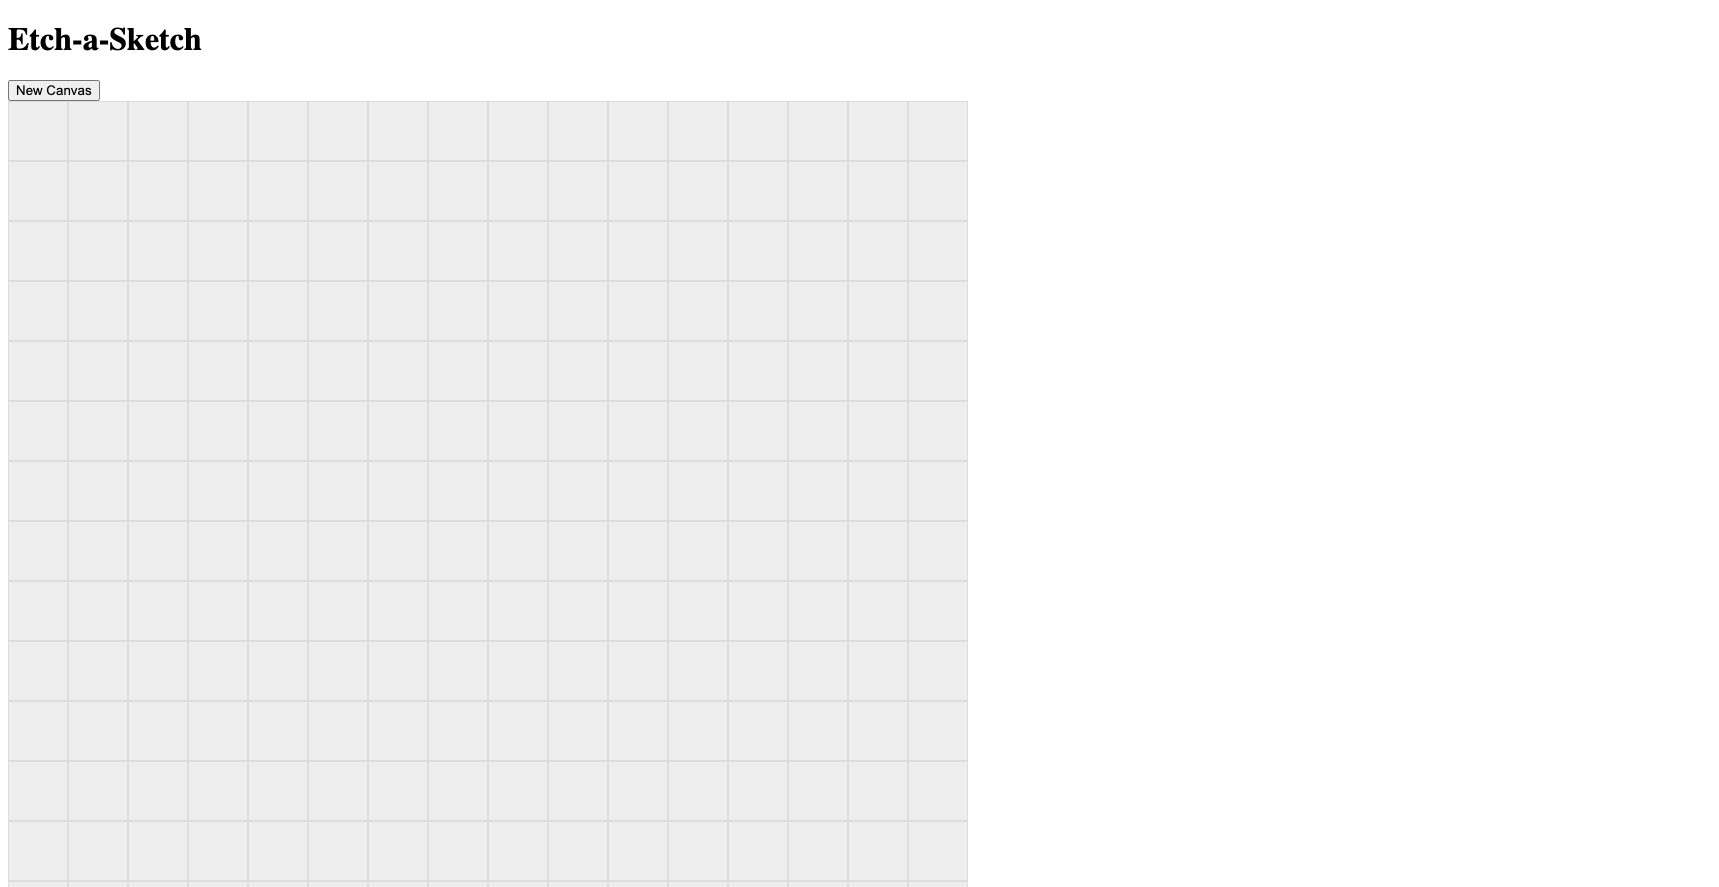
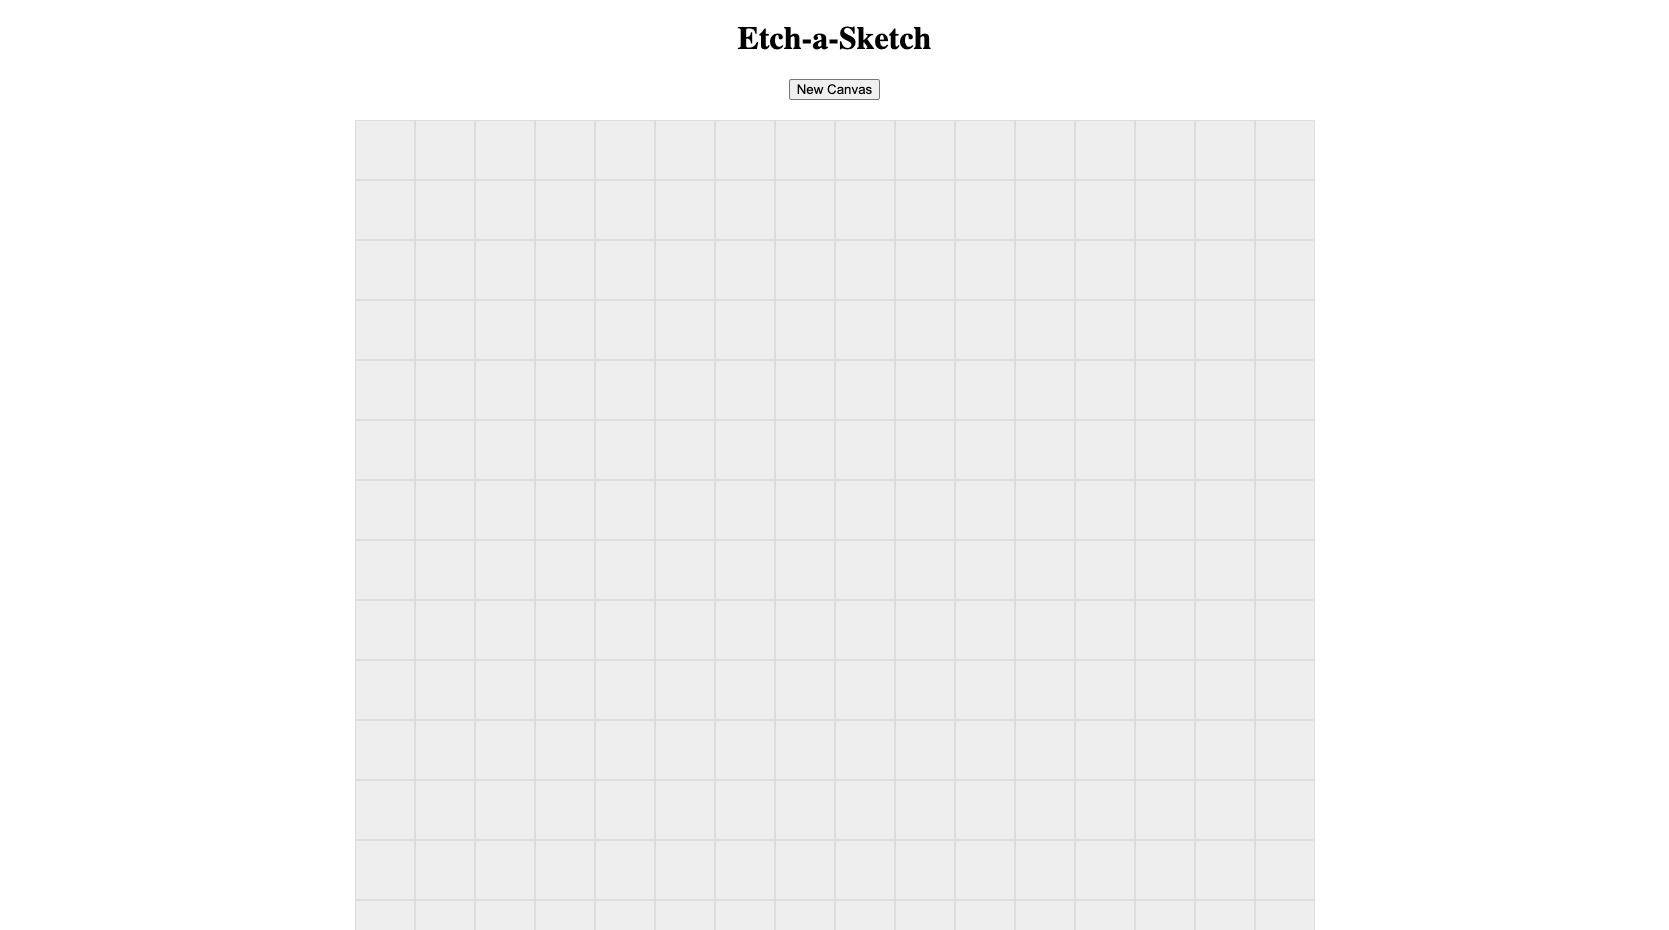
Updated screenshots and styling

diff --git a/src/App.css b/src/App.css
@@ -6,25 +6,6 @@
   --button2-color: #393E46;
 }
 
-@media (min-width: 600px) {
-  .ProjectsContainer {
-    width: 50%;
-  }
-}
-
-@media (max-width: 700px) {
-  .About {
-    width: 80%;
-  }
-  .ProjectCard {
-    padding: 0px;
-  }
-  .SkillIcons {
-    width: 75%;
-  }
-}
-
-
 body {
   list-style-type: none;
   text-align: center;
@@ -50,7 +31,7 @@ h2 {
 .About {
   text-align: center;
   margin:auto;
-  width: 50%;
+  
   padding-top: 20px;
   padding-bottom: 0px;
 }
@@ -154,4 +135,30 @@ a {
 
 i {
   color:#eee;
+}
+
+
+@media (min-width: 600px) {
+  .ProjectsContainer {
+    width: 50%;
+  }
+  .About {
+    width: 50%;
+  }
+}
+
+@media (max-width: 700px) {
+  .About {
+    width: 75%;
+  }
+  .ProjectCard {
+    padding: 0px;
+  }
+  .SkillIcons {
+    width: 75%;
+  }
+  .Projects {
+    width: 75%;
+    margin: auto;
+  }
 }
